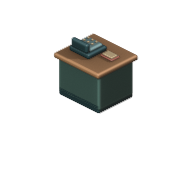
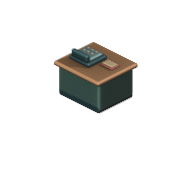
Lower the register counter to a more natural height

Changed region(s): [[0.2812, 0.1562, 0.7188, 0.4688]]

diff --git a/Art/Source/furniture.py b/Art/Source/furniture.py
@@ -64,21 +64,28 @@ def display(table=False):
     box("Paper ticket", .439, 0, height, .012, .172, .056, CREAM, .002)
 
 
+REGISTER_HEIGHT = .8
+
+
+def zbox(name, x, y, z, sx, sy, sz, mat, bevel=.025):
+    return box(name, x, y, z * REGISTER_HEIGHT, sx, sy, sz * REGISTER_HEIGHT, mat, bevel)
+
+
 def register():
-    box("Kickboard", 0, 0, .08, .73, .86, .16, TEAL)
-    box("Counter body", 0, 0, .365, .73, .87, .62, GREEN)
-    box("Maple top", 0, 0, .69, .86, .96, .085, WOOD)
+    zbox("Kickboard", 0, 0, .08, .73, .86, .16, TEAL)
+    zbox("Counter body", 0, 0, .365, .73, .87, .62, GREEN)
+    zbox("Maple top", 0, 0, .69, .86, .96, .085, WOOD)
     for y in (-.265, -.13, .005, .14, .275):
-        box("Fluting", .372, y, .32, .035, .045, .49, CREAM, .008)
-    box("Till drawer", -.015, .15, .776, .40, .43, .09, TEAL)
-    box("Till keypad", -.015, .15, .839, .32, .33, .05, IRON)
+        zbox("Fluting", .372, y, .32, .035, .045, .49, CREAM, .008)
+    zbox("Till drawer", -.015, .15, .776, .40, .43, .09, TEAL)
+    zbox("Till keypad", -.015, .15, .839, .32, .33, .05, IRON)
     for x in (-.09, 0, .09):
         for y in (.075, .16, .245):
-            box("Till key", x, y, .876, .037, .037, .02, CREAM, .007)
-    box("Display bezel", -.175, .15, .894, .075, .34, .15, TEAL)
-    box("Display glass", -.134, .15, .908, .015, .248, .075, GOLD, .007)
-    box("Coin dish", .075, -.228, .755, .19, .26, .043, RED)
-    box("Dish liner", .075, -.228, .78, .14, .21, .009, CREAM, .003)
+            zbox("Till key", x, y, .876, .037, .037, .02, CREAM, .007)
+    zbox("Display bezel", -.175, .15, .894, .075, .34, .15, TEAL)
+    zbox("Display glass", -.134, .15, .908, .015, .248, .075, GOLD, .007)
+    zbox("Coin dish", .075, -.228, .755, .19, .26, .043, RED)
+    zbox("Dish liner", .075, -.228, .78, .14, .21, .009, CREAM, .003)
 
 
 def workbench():
